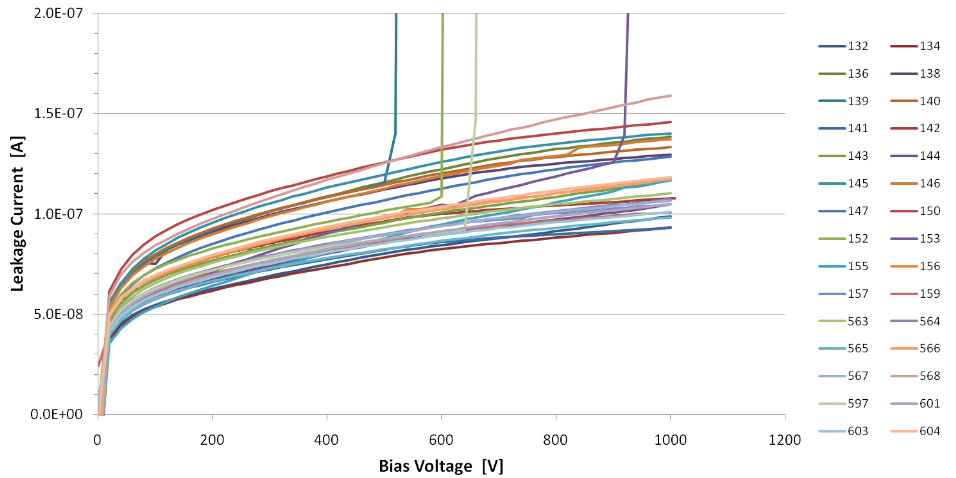
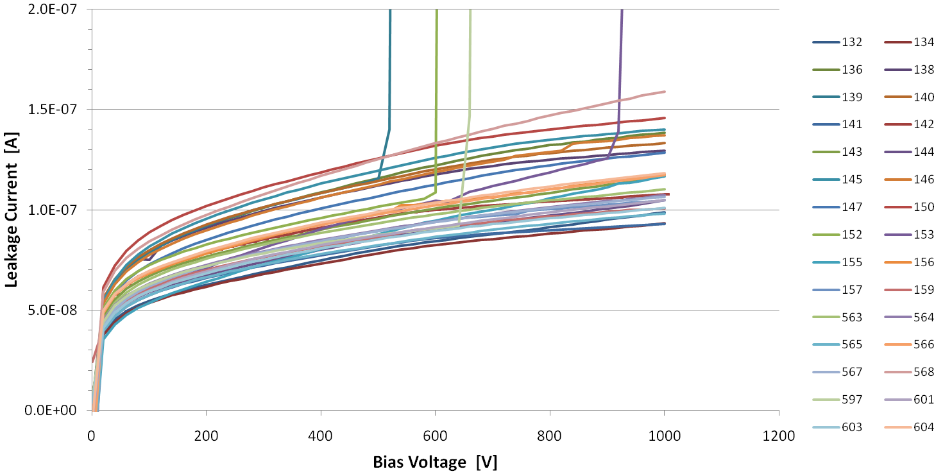
Give a more detailed explanation as to why sensors need to operated at high bias voltages.

diff --git a/chapters/hps_apparatus.tex b/chapters/hps_apparatus.tex
@@ -190,17 +190,17 @@ another layer.  In total, the SVT makes use of 36 sensors, which amounts to
 
 Since heavy photons are produced very forward, and the opening angle of their 
 decay products goes as $\sim m_{A}/E_{0}$, sensitivity to low mass heavy photons
-require
-the tracker planes to be as close to the beam plane as possible.  When deciding
-the distance of the first layer to the beam, several things  needed to be taken
-into consideration including the amount of beam halo, the ability to resolve 
-hits with pileup present and the ability to do pattern recognition in a high 
+requires
+the tracker layers to be as close to the beam plane as possible.  When deciding
+the distance of the first layer to the beam, several effects needed to be taken
+into consideration. These include the extent of the beam halo, the amount of 
+radiation damage that is expected to be incurred from the Coulomb scattering
+of the primary beam as well as radiative secondaries, the ability to resolve 
+hits with pileup present and being capable of doing pattern recognition in a high 
 occupancy environment.  With all of this in mind, it was determined that the 
 closest tolerable distance was 15 mrad, putting the active edge of layer 1 
-at 0.5 mm from the beam center. In simulation, this corresponded to 1\% occupancy
-of strips closest to the beam plane.
-% Should I include a plot of the occupancy here or in the performance section?
-% Probably in the performance section.
+at 0.5 mm from the beam center. In simulation, this corresponds to 1\% occupancy
+of strips closest to the beam plane of layer 1.
 
 % I should talk about the positions as surveyed.
 %The SVT layout is summarized in Table \ref{tab:svt_layout}. \textbf{Talk about
@@ -210,36 +210,40 @@ of strips closest to the beam plane.
 %%% Table of SVT layout %%%
 %%%%%%%%%%%%%%%%%%%%%%%%%%%
 % I should use the survey positions here.
-\begin{table}[t]
- \begin{center}
-\begin{tabular}{l|cccccc}  
-\hline
-Layer & 1 & 2 & 3 & 4 & 5 & 6 \\ \hline
-$z$ position from target (cm)    & 10 & 20 & 30 & 50 & 70 & 90 \\
-Stereo angle (mrad) & 100 & 100 & 100 & 50 & 50 & 50 \\
-Bend plane resolution ($\mu$m) & $\approx$6 & $\approx$6 & $\approx$6 & $\approx$6 & $\approx$6 & $\approx$6 \\
-Non-bend plane resolution ($\mu$m) & $\approx60$ & $\approx60$ & $\approx60$ & $\approx120$ & $\approx120$ & $\approx120$ \\
-Nominal dead zone in $y$ (mm) & $\pm$ 1.5 & $\pm$ 3.0 & $\pm$ 4.5 & $\pm$ 7.5 & $\pm$ 10.5 & $\pm$ 13.5 \\ 
-\hline
-\end{tabular}
-\caption{The layout of the HPS SVT.}
-\label{tab:svt_layout}
-\end{center}
-\end{table}
+%\begin{table}[t]
+\begin{sidewaystable}
+    \centering
+    \begin{tabular}{lcccccc}  
+        \toprule
+        \textbf{Layer} & \textbf{1} & \textbf{2} & \textbf{3} & \textbf{4} & \textbf{5} & \textbf{6} \\
+        \midrule
+        \midrule
+        $z$ position from target (cm)    & 10 & 20 & 30 & 50 & 70 & 90 \\
+        Stereo angle (mrad) & 100 & 100 & 100 & 50 & 50 & 50 \\
+        Bend plane resolution ($\mu$m) & $\approx$6 & $\approx$6 & $\approx$6 & $\approx$6 & $\approx$6 & $\approx$6 \\
+        Non-bend plane resolution ($\mu$m) & $\approx60$ & $\approx60$ & $\approx60$ & $\approx120$ & $\approx120$ & $\approx120$ \\
+        Nominal dead zone in $y$ (mm) & $\pm$ 1.5 & $\pm$ 3.0 & $\pm$ 4.5 & $\pm$ 7.5 & $\pm$ 10.5 & $\pm$ 13.5 \\ 
+        Material budget & .7\% & .7\% & .7\% & .7\% & .7\% & .7\% \\
+        \bottomrule
+    \end{tabular}
+    \caption{The layout of the HPS SVT.}
+    \label{tab:svt_layout}
+\end{sidewaystable}
 %%%%%%%%%%%%%%%%%%%%%%%%%%%
 
 \subsection{Sensors}
 
-At the energies at which HPS will operate, the uncertainty in both the mass and
+At the energies at which HPS operates, the uncertainty in both the mass and
 vertex resolutions are dominated by multiple Coulomb scattering in the first 
-few layers. This made it crucial to choose a sensor technology that would 
-reduce the material budget of the SVT modules in order to maximize the mass and
-vertex resolutions.  Furthermore, the need to place the SVT in close proximity
-to the beam plane made it necessary to choose sensors which were highly tolerant
+few layers.  This made it important to choose a sensor technology that would 
+minimize the material budget of the SVT modules, especially since the material
+budget of the sensors dominates the total material budget of the SVT modules.
+Furthermore, the need to place the SVT in close proximity
+to the beam plane made it necessary to choose sensors which are highly tolerant
 to radiation.  With these 
 considerations in mind, a readily available batch of silicon microstrip sensors,
 initially manufactured for the D0 Run IIb upgrade, were found to satisfy all 
-necessary requirements \cite{}.
+necessary requirements \cite{D0Collab:2003}.
 
 The sensors were manufactured by Hamamatsu Photonics Corporation on 
 $\langle 100 \rangle$ crystal rotation silicon and are $p^{+}$ on $n$-bulk, 
@@ -257,9 +261,9 @@ Table \ref{tab:sensor_specs}.
         Readout (Sense) pitch           & 60 (30) $\mu$m \\
         \# Readout (Sense) strips       & 639 (1277) \\
         Breakdown voltage               & $>1000$ V \\
-        Depletion voltage               & $> 130 V$ \\
-        Bias Resistor Value             & $0.8 \pm 0.3 M \Omega$ \\
-        AC Coupling Capacitance         & $>12 pF/cm$ \\
+        Depletion voltage               & $> 130$ V \\
+        Bias Resistor Value             & $0.8 \pm 0.3$ M$\Omega$ \\
+        AC Coupling Capacitance         & $>12$ pF/cm \\
         Total Interstrip Capacitance    & $< 1.2$ pF/cm \\
         Defective Channels              & $<1$ \% \\
         \bottomrule
@@ -268,24 +272,35 @@ Table \ref{tab:sensor_specs}.
     \label{tab:sensor_specs}
 \end{table}
 
-Before being considered for use by the SVT, all sensors were electrically 
+Over the lifetime of the HPS detector, the sensor strips closest to the beam 
+plane are expected to see $>10^{15}$ electrons per cm$^2$.  The radiation
+damage the sensors are expected to incur due to the large electron flux,
+will lead to an increase in both the leakage current and the voltage required to 
+fully deplete the sensor.  It was then beneficial to choose a sensor technology
+that can be operated at high bias voltage in order for them to remain fully
+depleted even after irradiation. In fact, previous studies have shown that 
+sensors that may be operated to 1000 V can tolerate a dose of 
+$1.5 \times 10^{14}$ 1 MeV neq/cm$^2$ \cite{Fretwurst:2002vb}.  Since the damage
+incurred by electrons with energies less than 10 GeV is a factor $\sim$ 30 less
+than 1 MeV neutrons \cite{Rashevskaya:2002nd},
+then ensuring all sensors can be biased to 1000 V will ensure that the sensors
+will be able to withstand the expected flux of electrons over the lifetime of
+HPS. 
+
+
+Before being considered for use for the SVT modules, all sensors were electrically 
 characterized.  Specfically, the leakage current was measured as a function
-of bias voltage up to a maximum bias of 1000 V.  
-
-
-1000 V with only () out of () breaking down.  
-During these test, leakage currents of less than 500 nA were observed.
-IV curves for a subset of sensors can be seen on Fig. \ref{fig:sensor_iv_curves}.
-The high breakdown voltage
-\begin{figure}
+of bias voltage up to a maximum bias of 1000 V.  During these test, leakage 
+currents of less than 500 nA were observed.  The measured IV curves for a subset
+of sensors can be seen on Fig. \ref{fig:sensor_iv_curves}.  Only sensors whose
+leakage current did not uncontrollably increase (i.e. breakdown) before reaching
+a bias of 1000 V  were considered for use in HPS.
+\begin{figure}[h!t]
     \centering
-    \includegraphics[width=1.0\textwidth]{images/sensor_iv_curves.png}
-    \caption{IV curves for a subset of sensors used by HPS.}
+    \includegraphics[width=\textwidth]{images/sensor_iv_curves.png}
+    \caption{Measured IV curves for a subset of sensors used by HPS.}
     \label{fig:sensor_iv_curves}
 \end{figure}
-means that the sensors are capable of a dose tolerance of  1.5 
-$\times 10^{14}$ 1 MeV neq/cm$^{2}$.  All sensors were determined to be fully 
-depleted at $\approx$ 130 V. 
 
 \subsection{Readout} \label{subsec:readout}
 
